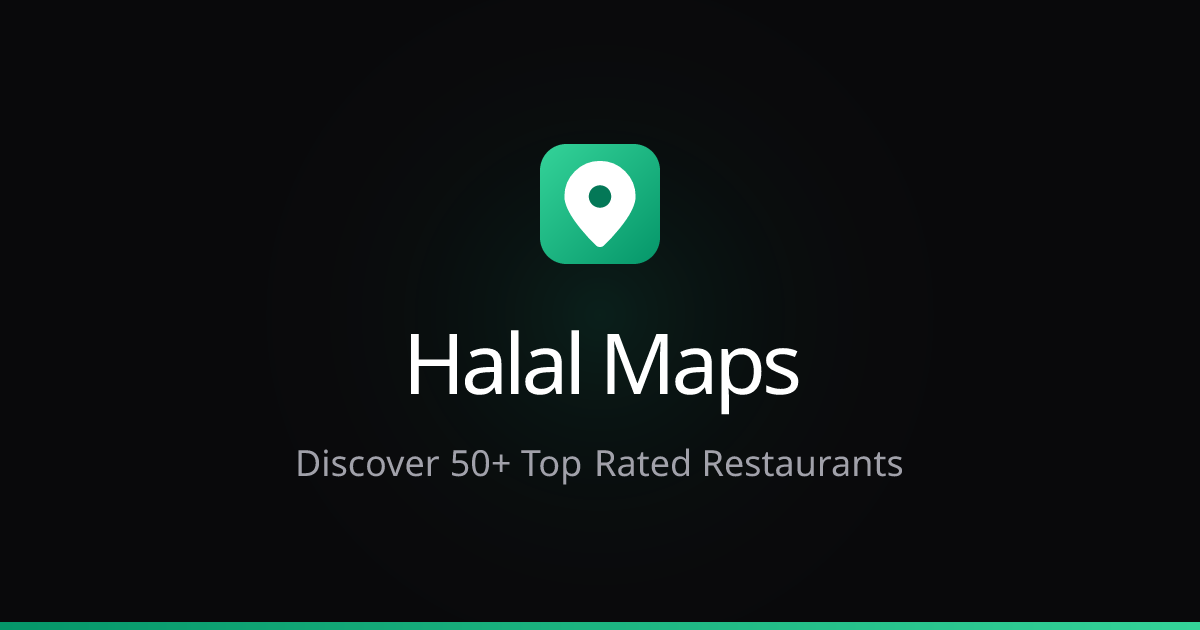
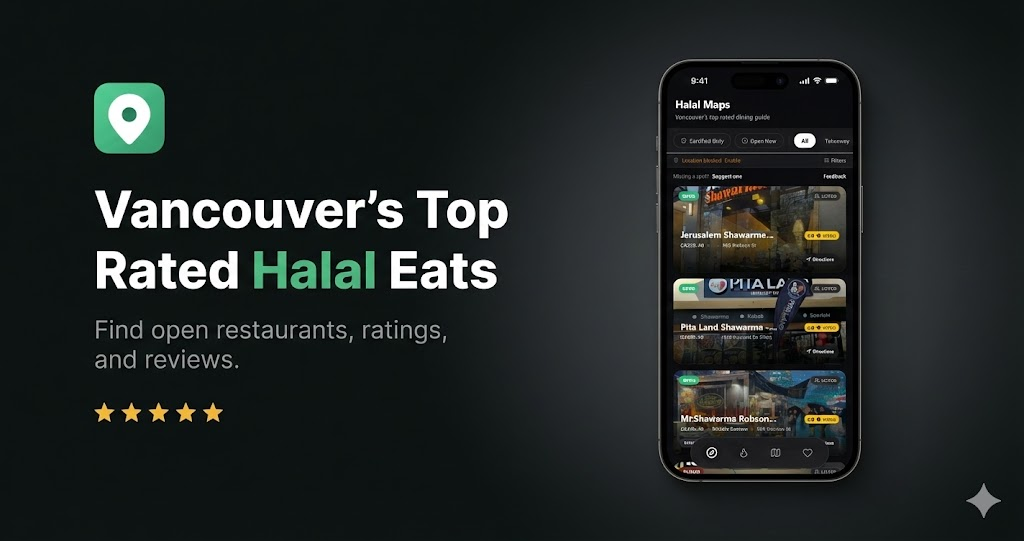
chore(metadata): update og image and description

diff --git a/app/(home)/page.tsx b/app/(home)/page.tsx
@@ -7,19 +7,19 @@ import type { Metadata } from 'next';
 export const revalidate = 3600;
 
 export const metadata: Metadata = {
-  title: 'Halal Maps | Top Rated Halal Restaurants in Vancouver',
-  description: 'Find the best accessible Halal food in Vancouver. Search by rating, distance, and cuisine on Halal Maps. Updated daily.',
-  keywords: ['Halal Maps', 'Halal food Vancouver', 'Halal restaurants near me', 'Best Halal Vancouver', 'Vancouver Halal Guide'],
+  title: 'Halal Maps - Top Rated Halal Restaurants in Vancouver',
+  description: "Find the best Halal food near you instantly. Filter by cuisine, check live open status, and browse top-rated Halal restaurants across the Lower Mainland.",
+  keywords: ['Halal Maps', 'Halal food Vancouver', 'Halal restaurants near me', 'Best Halal Vancouver', 'Vancouver Halal Guide', 'Halal Dining BC', 'Zabiha Halal Vancouver'],
   openGraph: {
-    title: 'Halal Maps | Top Rated Halal Restaurants in Vancouver',
-    description: 'Find the best accessible Halal food in Vancouver, BC using Halal Maps.',
+    title: 'Halal Maps - Top Rated Halal Restaurants in Vancouver',
+    description: "Find the best Halal food near you instantly. Filter by cuisine, check live open status, and browse top-rated Halal restaurants across the Lower Mainland.",
     url: 'https://halalmaps.app',
     siteName: 'Halal Maps',
     locale: 'en_US',
     type: 'website',
     images: [
       {
-        url: '/opengraph-image', // Relative path uses metadataBase
+        url: '/og-image.png', // Static file for reliability
         width: 1200,
         height: 630,
         alt: 'Halal Maps - Vancouver',

diff --git a/app/layout.tsx b/app/layout.tsx
@@ -23,10 +23,10 @@ export const viewport: Viewport = {
 export const metadata: Metadata = {
   metadataBase: new URL('https://halalmaps.app'),
   title: "Halal Maps - Vancouver",
-  description: "The ultimate guide to finding the best Halal food in Vancouver, BC. Discover top-rated, accessible Halal restaurants, cafes, and hidden gems near you. Updated daily with verified hours and menus.",
+  description: "Find the best Halal food near you instantly. Filter by cuisine, check live open status, and browse top-rated Halal restaurants across the Lower Mainland.",
   openGraph: {
     title: "Halal Maps - Top Rated Halal Restaurants in Vancouver",
-    description: "The ultimate guide to finding the best Halal food in Vancouver, BC. Discover top-rated, accessible Halal restaurants, cafes, and hidden gems near you. Updated daily with verified hours and menus.",
+    description: "Find the best Halal food near you instantly. Filter by cuisine, check live open status, and browse top-rated Halal restaurants across the Lower Mainland.",
     url: 'https://halalmaps.app',
     siteName: 'Halal Maps',
     locale: 'en_US',